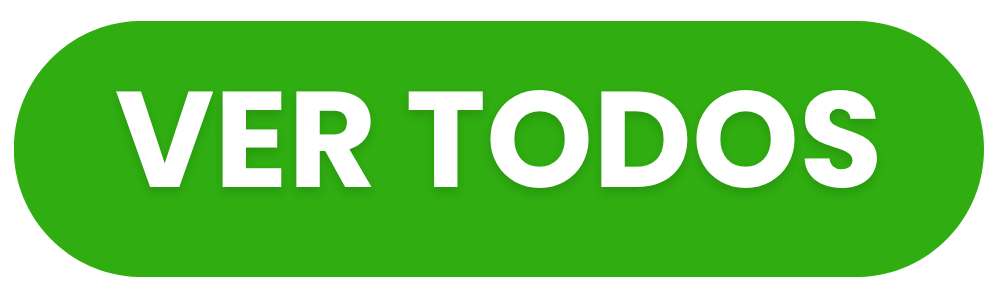
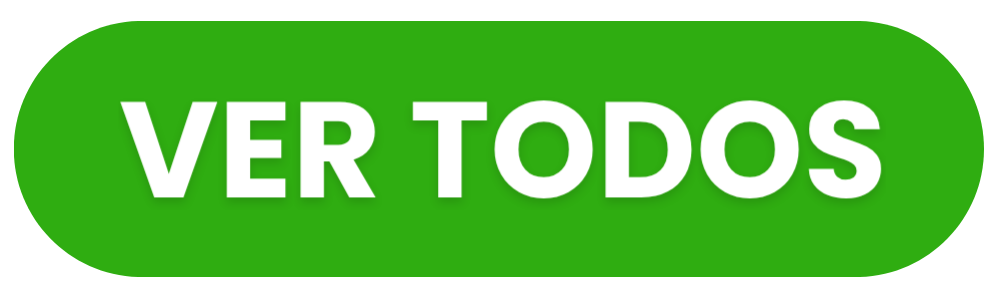
Fix errores

Changed region(s): [[0.4014, 0.3082, 0.8954, 0.6781], [0.1235, 0.3082, 0.4014, 0.6781], [0.0926, 0.3082, 0.1544, 0.3699]]

diff --git a/app/src/main/java/com/lasante/tvkiosk/ui/components/ProductPresentationModal.kt b/app/src/main/java/com/lasante/tvkiosk/ui/components/ProductPresentationModal.kt
@@ -15,6 +15,7 @@ import androidx.compose.foundation.layout.fillMaxHeight
 import androidx.compose.foundation.layout.fillMaxSize
 import androidx.compose.foundation.layout.fillMaxWidth
 import androidx.compose.foundation.layout.height
+import androidx.compose.foundation.layout.heightIn
 import androidx.compose.foundation.layout.offset
 import androidx.compose.foundation.layout.padding
 import androidx.compose.foundation.layout.requiredHeight
@@ -256,12 +257,14 @@ private fun ProductPresentationModalContent(
                         fallbackImageUrl = fallbackImageUrl,
                         modifier = Modifier
                             .fillMaxWidth()
-                            .weight(1.25f),
+                            .weight(1.25f)
+                            .zIndex(1f),
                     )
                     Box(
                         modifier = Modifier
                             .fillMaxWidth()
-                            .weight(1f),
+                            .weight(1f)
+                            .zIndex(2f),
                         contentAlignment = Alignment.Center,
                     ) {
                         Row(
@@ -326,14 +329,15 @@ private fun ProductPresentationModalContent(
                             modifier = Modifier
                                 .weight(layout.modelWeight)
                                 .fillMaxHeight()
-                                .zIndex(2f),
+                                // Debajo del card: el SceneView oversized no debe comerse toques de “Ver más”.
+                                .zIndex(1f),
                             scaleToUnits = layout.modelScaleToUnits,
                         )
                         Box(
                             modifier = Modifier
                                 .weight(layout.descriptionWeight)
                                 .fillMaxHeight(layout.descriptionHeightFraction)
-                                .zIndex(1f)
+                                .zIndex(2f)
                                 .offset(
                                     x = layout.descriptionOffsetX,
                                     y = layout.descriptionOffsetY,
@@ -423,8 +427,10 @@ private fun ProductModelStage(
         renderModel = true
     }
 
+    // clipToBounds: el SceneView (AndroidView) a 1.55× no debe recibir toques fuera del slot
+    // (tapaba el card / “Ver más”). El zoom sigue funcionando dentro del área visible.
     BoxWithConstraints(
-        modifier = modifier,
+        modifier = modifier.clipToBounds(),
         contentAlignment = Alignment.Center,
     ) {
         when {
@@ -435,7 +441,7 @@ private fun ProductModelStage(
                         .requiredHeight(maxHeight * MODEL_STAGE_OVERFLOW)
                         .zIndex(2f),
                     modelUrl = modelUrl,
-                    // Compensa el SceneView oversized: al abrir ≈ tamaño del slot; al zoom puede sobresalir.
+                    // Compensa el SceneView oversized: al abrir ≈ tamaño del slot.
                     scaleToUnits = scaleToUnits / MODEL_STAGE_OVERFLOW,
                 )
             }
@@ -504,8 +510,12 @@ private fun ProductDescriptionPanel(
         product.modalBulletLines(shorten = false)
     }
     var expanded by remember(product.productoId) { mutableStateOf(false) }
-    val textShortened = fullBullets.joinToString("\n") != previewBullets.joinToString("\n") ||
-        product.description.trim().length > MODAL_DESCRIPTION_MAX_CHARS
+    // Solo cuenta como “hay más” si el preview truncado difiere del texto completo.
+    // Antes también mirábamos description.length > 280 aunque el modal mostrara
+    // atributos ya enteros → “Ver más” visible sin ningún cambio al pulsar.
+    val textShortened = remember(previewBullets, fullBullets) {
+        previewBullets != fullBullets
+    }
     val bullets = if (expandable && expanded) fullBullets else previewBullets
     val corner = if (compact) 18.dp else 20.dp
     val cornerShape = RoundedCornerShape(corner)
@@ -520,7 +530,8 @@ private fun ProductDescriptionPanel(
     val scrollState = rememberScrollState()
     var viewportPx by remember(product.productoId) { mutableIntStateOf(0) }
     var contentPx by remember(product.productoId, expanded) { mutableIntStateOf(0) }
-    val overflows = contentPx > viewportPx + 2
+    // Evitar falso overflow mientras viewport aún no midió (0 px).
+    val overflows = viewportPx > 0 && contentPx > viewportPx + 2
     val canExpand = expandable && (textShortened || overflows || expanded)
 
     Box(modifier = modifier) {
@@ -647,12 +658,15 @@ private fun ProductDescriptionPanel(
                     fontSize = bodySize,
                     fontWeight = FontWeight.SemiBold,
                     modifier = Modifier
+                        .zIndex(30f)
+                        .fillMaxWidth()
+                        .heightIn(min = 44.dp)
                         .clickable(
                             interactionSource = remember { MutableInteractionSource() },
                             indication = null,
                             onClick = { expanded = !expanded },
                         )
-                        .padding(vertical = 4.dp),
+                        .padding(vertical = 8.dp),
                 )
             }
         }
